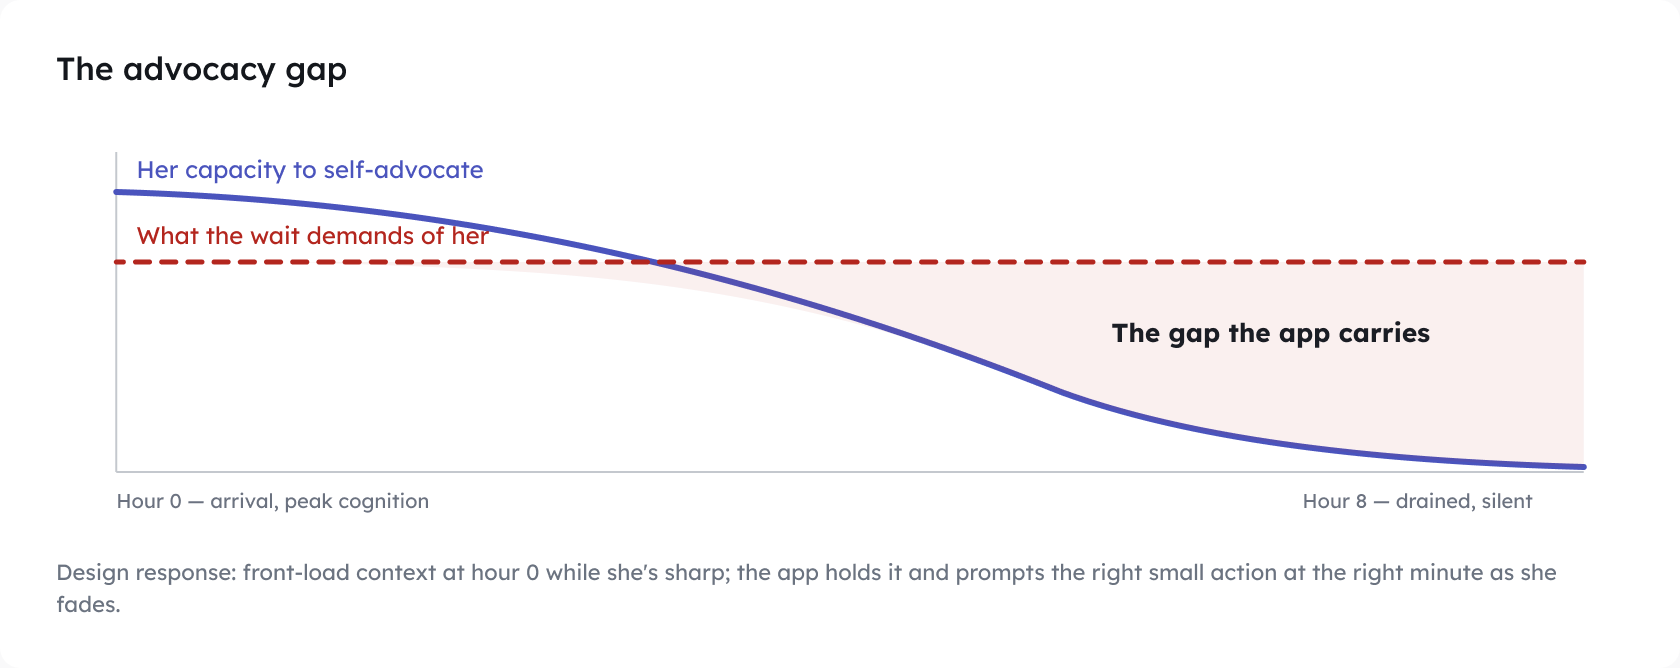
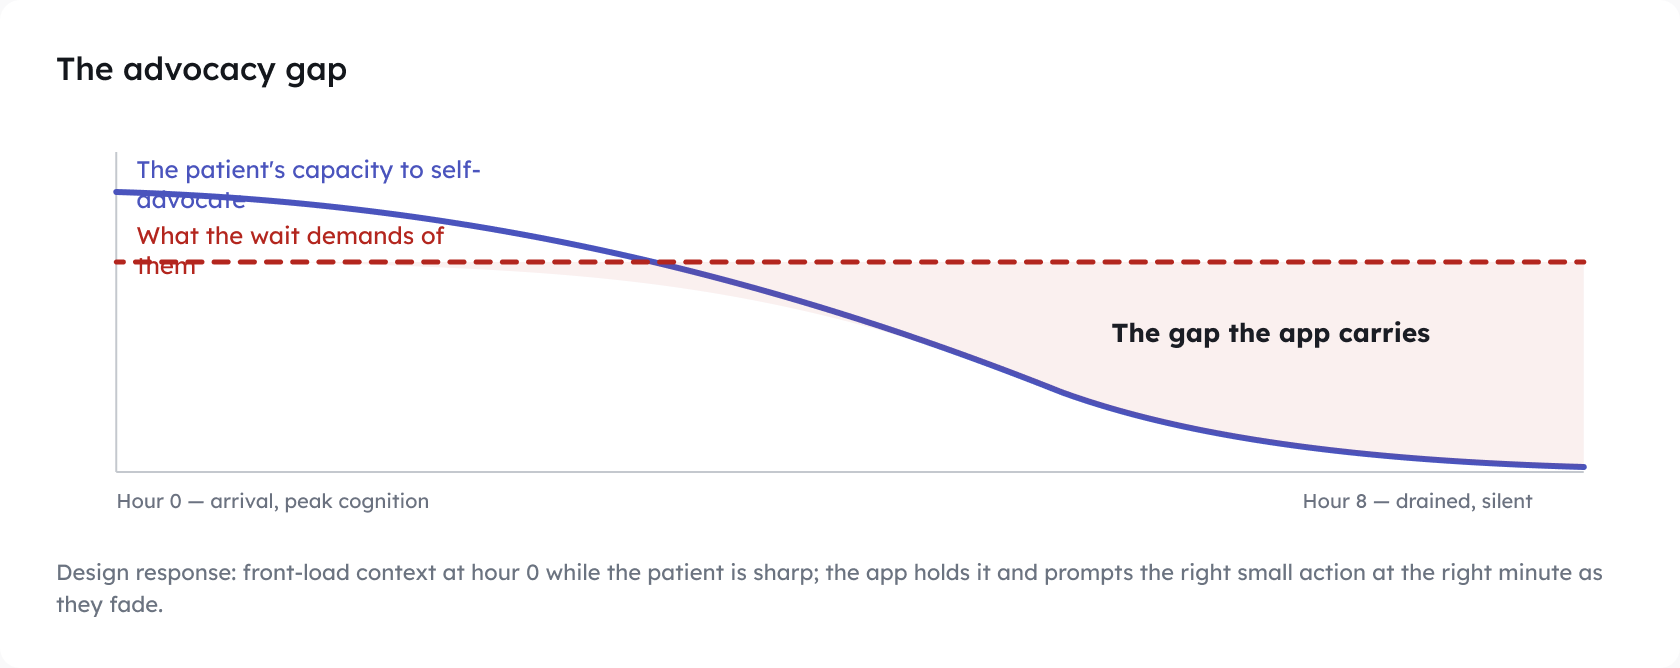
feat: generalize persona to any ER patient, keep mother as origin
Product persona is now any adult facing a long ER wait; 'my
mother, customer zero' remains as the origin line only. Updated
hero, problem, direction copy, screen captions, TL;DR, lesson,
metadata, and home depth list. Figma narrative pages and family
mockups updated to match (Mom -> Carol on screens); re-exported
decay diagram, directions A/C/D, and family row.

diff --git a/app/work/personal-nurse/case-study-content.tsx b/app/work/personal-nurse/case-study-content.tsx
@@ -39,7 +39,7 @@ type Direction = {
 const DIRECTIONS: Direction[] = [
 	{
 		eyebrow: "Direction A · Soft Sanctuary 2.0",
-		title: "Calm that ages with her energy.",
+		title: "Calm that ages with the patient's energy.",
 		body: "The existing hypothesis, matured. Low-arousal periwinkle, tonal layering, pill shapes — plus a decay-aware idea: as the wait passes hour 2, 4, 6, type grows and choices shrink.",
 		img: `${IMG}/direction-a.png`,
 		alt: "Direction A: four periwinkle-and-cream phone screens — home with one big I'm at the ER button, active visit with a radial wait clock, nurse card, and family timeline",
@@ -84,7 +84,7 @@ const PATIENT_SCREENS: Screen[] = [
 	{
 		eyebrow: "Screen 1 · Home",
 		title: "One tap starts everything.",
-		body: "No login, no menu maze. The screen exists for exactly one moment: she's at the ER and needs the app working for her. Her family's avatars are right there — she's not doing this alone.",
+		body: "No login, no menu maze. The screen exists for exactly one moment: the patient is at the ER and needs the app working for them. The family's avatars are right there — no one does this alone.",
 		img: `${IMG}/screen-home.png`,
 		alt: "Home screen: Hi Carol greeting, one large terracotta I'm at the ER button, three family avatars, and two quick links",
 	},
@@ -98,21 +98,21 @@ const PATIENT_SCREENS: Screen[] = [
 	{
 		eyebrow: "Screen 3 · Setup",
 		title: "Filled in on a good day.",
-		body: "Hearing side, upright tolerance, what makes her foggy — captured at leisure, at peak cognition. Every field feeds both the nurse card and the nudge rules. All of it optional.",
+		body: "Hearing side, upright tolerance, what makes the fog set in — captured at leisure, at peak cognition. Every field feeds both the nurse card and the nudge rules. All of it optional.",
 		img: `${IMG}/screen-setup.png`,
 		alt: "Setup screen: hearing side chips, an upright-hours stepper reading 2 hours, three toggles, and a save button",
 	},
 	{
 		eyebrow: "Screen 4 · Active visit",
 		title: "The app carries the load.",
-		body: "As her energy drains over the wait, a deterministic rules engine — not an LLM — surfaces one gentle, timed nudge at a time. Comfort, logistics, communication. Never clinical advice; a guardrail test in code enforces it.",
+		body: "As the patient's energy drains over the wait, a deterministic rules engine — not an LLM — surfaces one gentle, timed nudge at a time. Comfort, logistics, communication. Never clinical advice; a guardrail test in code enforces it.",
 		img: `${IMG}/screen-active.png`,
 		alt: "Active visit screen: You're doing fine Carol, a suggestion card offering the words to ask for a recliner, and status choices including Worse — tell my family",
 	},
 	{
 		eyebrow: "Screen 5 · Feeling worse",
 		title: "The words, when she can't find them.",
-		body: "One tap tells the whole family, then hands her an exact script — or she hands the phone to the desk. The state is persistent and reversible, and she can see who is already acting.",
+		body: "One tap tells the whole family, then hands the patient an exact script — or they hand the phone to the desk. The state is persistent and reversible, and they can see who is already acting.",
 		img: `${IMG}/screen-worse.png`,
 		alt: "Feeling worse screen: Your family knows banner, a show-this-or-say-this script card, an undo option, and live family responses",
 	},
@@ -137,10 +137,10 @@ export function CaseStudyContent() {
 					Personal Nurse.
 				</h1>
 				<p className="mt-6 max-w-[60ch] text-xl leading-relaxed text-fg sm:text-[1.375rem]">
-					An 80-year-old reaches the ER sharp, then drains over a 4–8 hour
-					wait — forgetting what to ask exactly when asking matters most. I
-					designed an app that front-loads her context while she&rsquo;s
-					sharp, then advocates for her as she fades.{" "}
+					A patient reaches the ER sharp, then drains over a 4–8 hour wait —
+					forgetting what to ask exactly when asking matters most. I designed
+					an app that front-loads their context while they&rsquo;re sharp,
+					then advocates for them as they fade.{" "}
 					<strong className="text-accent">
 						The patient holds the phone. The app carries the load.
 					</strong>
@@ -156,10 +156,11 @@ export function CaseStudyContent() {
 					title="Her voice fades over the exact hours it matters most."
 				/>
 				<p className="mt-6 max-w-[60ch] text-lg leading-relaxed text-fg-soft">
-					Customer zero is my own mother. Real visits, real stakes. Existing
-					tools — Medical ID, patient portals, panic buttons — are static
-					records or emergency triggers. None carry her context forward in
-					time. The design problem in one picture:
+					It began with customer zero — my own mother — but the product is for
+					anyone facing a long ER wait. Existing tools — Medical ID, patient
+					portals, panic buttons — are static records or emergency triggers.
+					None carry the patient&rsquo;s context forward in time. The design
+					problem in one picture:
 				</p>
 				<Figure
 					src={`${IMG}/decay-diagram.png`}
@@ -180,7 +181,7 @@ export function CaseStudyContent() {
 				/>
 				<p className="mt-6 max-w-[60ch] text-lg leading-relaxed text-fg-soft">
 					Each direction is a complete argument about what an anxious
-					80-year-old trusts — not a re-skin. All four carry the same five
+					patient trusts — not a re-skin. All four carry the same five
 					principles: front-load at peak cognition, one decision per screen,
 					never give medical advice, work offline, and let the app do the
 					remembering.
@@ -246,11 +247,12 @@ export function CaseStudyContent() {
 					title="The design language switches when the phone changes hands."
 				/>
 				<p className="mt-6 max-w-[60ch] text-lg leading-relaxed text-fg-soft">
-					The project began as a hand-typed paper packet in her purse. The
-					system closes that loop: her setup data renders as a warm card on
-					screen and regenerates the letter-size packet for print — same
-					record, two readers. Meds change, update once, reprint. The purse
-					copy can never drift more than one print behind.
+					The project began as a hand-typed paper packet in my mother&rsquo;s
+					purse. The system closes that loop: the patient&rsquo;s setup data
+					renders as a warm card on screen and regenerates the letter-size
+					packet for print — same record, two readers. Meds change, update
+					once, reprint. The paper copy can never drift more than one print
+					behind.
 				</p>
 				<div className="mt-12 grid gap-6 sm:grid-cols-2 md:gap-10">
 					<figure>
@@ -296,9 +298,9 @@ export function CaseStudyContent() {
 				/>
 				<p className="mt-6 max-w-[60ch] text-lg leading-relaxed text-fg-soft">
 					Family joins by magic link — no app store, no account. A quiet
-					state that says she&rsquo;s okay, and an escalation state where one
-					person claims the action so three people don&rsquo;t all call the
-					front desk at once.
+					state that says the patient is okay, and an escalation state where
+					one person claims the action so three people don&rsquo;t all call
+					the front desk at once.
 				</p>
 				<Figure
 					src={`${IMG}/family-row.png`}
@@ -339,19 +341,19 @@ export function CaseStudyContent() {
 			<CaseSection num="08" id="tldr" label="TL;DR">
 				<SectionHeading eyebrow="TL;DR" title="At a glance" />
 				<p className="mt-6 max-w-[60ch] text-lg leading-relaxed text-fg-soft">
-					A self-initiated product for a real user — my mother — with the
-					patient side already running as a client-only PWA (deterministic
-					rules engine, offline, no account). This case study is the design
-					system pass before the rebuild. All patient data shown is
-					fictional.
+					A self-initiated product for anyone facing a long ER wait — it
+					began with my mother as customer zero — with the patient side
+					already running as a client-only PWA (deterministic rules engine,
+					offline, no account). This case study is the design system pass
+					before the rebuild. All patient data shown is fictional.
 				</p>
 				<MetricList tiles={TLDR_METRICS} />
 				<p className="mt-8 max-w-[60ch] text-lg leading-relaxed text-fg-soft">
 					The lesson I&rsquo;d hand another designer: the warmth was never
 					decoration — it was the accessibility feature. Tech anxiety, not
-					touch targets, is what keeps an 80-year-old from using an app in a
-					crisis. And a contrast ratio is the cheapest usability test
-					you&rsquo;ll ever run.
+					touch targets, is what keeps an overwhelmed patient from using an
+					app in a crisis. And a contrast ratio is the cheapest usability
+					test you&rsquo;ll ever run.
 				</p>
 			</CaseSection>
 

diff --git a/components/depth-list.tsx b/components/depth-list.tsx
@@ -29,7 +29,7 @@ const ITEMS: DepthItem[] = [
   {
     number: "03",
     title: "Personal Nurse",
-    body: "An ER-wait advocacy app for an 80-year-old patient — my own mother. Four design directions, a measured WCAG pass, and a system that switches design language when the phone changes hands. Password-gated.",
+    body: "An ER-wait advocacy app for anyone facing a long wait — it began with my own mother. Four design directions, a measured WCAG pass, and a system that switches design language when the phone changes hands. Password-gated.",
     cta: "Case study",
     href: "/work/personal-nurse",
   },

diff --git a/app/work/personal-nurse/page.tsx b/app/work/personal-nurse/page.tsx
@@ -6,7 +6,7 @@ import { PasswordGate } from "./password-gate";
 export const metadata: Metadata = {
   title: "Personal Nurse — case study",
   description:
-    "An ER-wait advocacy app for an 80-year-old patient. Four design directions, a measured accessibility pass, and a system where the design language switches when the phone changes hands.",
+    "An ER-wait advocacy app for anyone facing a long wait. Four design directions, a measured accessibility pass, and a system where the design language switches when the phone changes hands.",
   robots: {
     index: false,
     follow: false,
